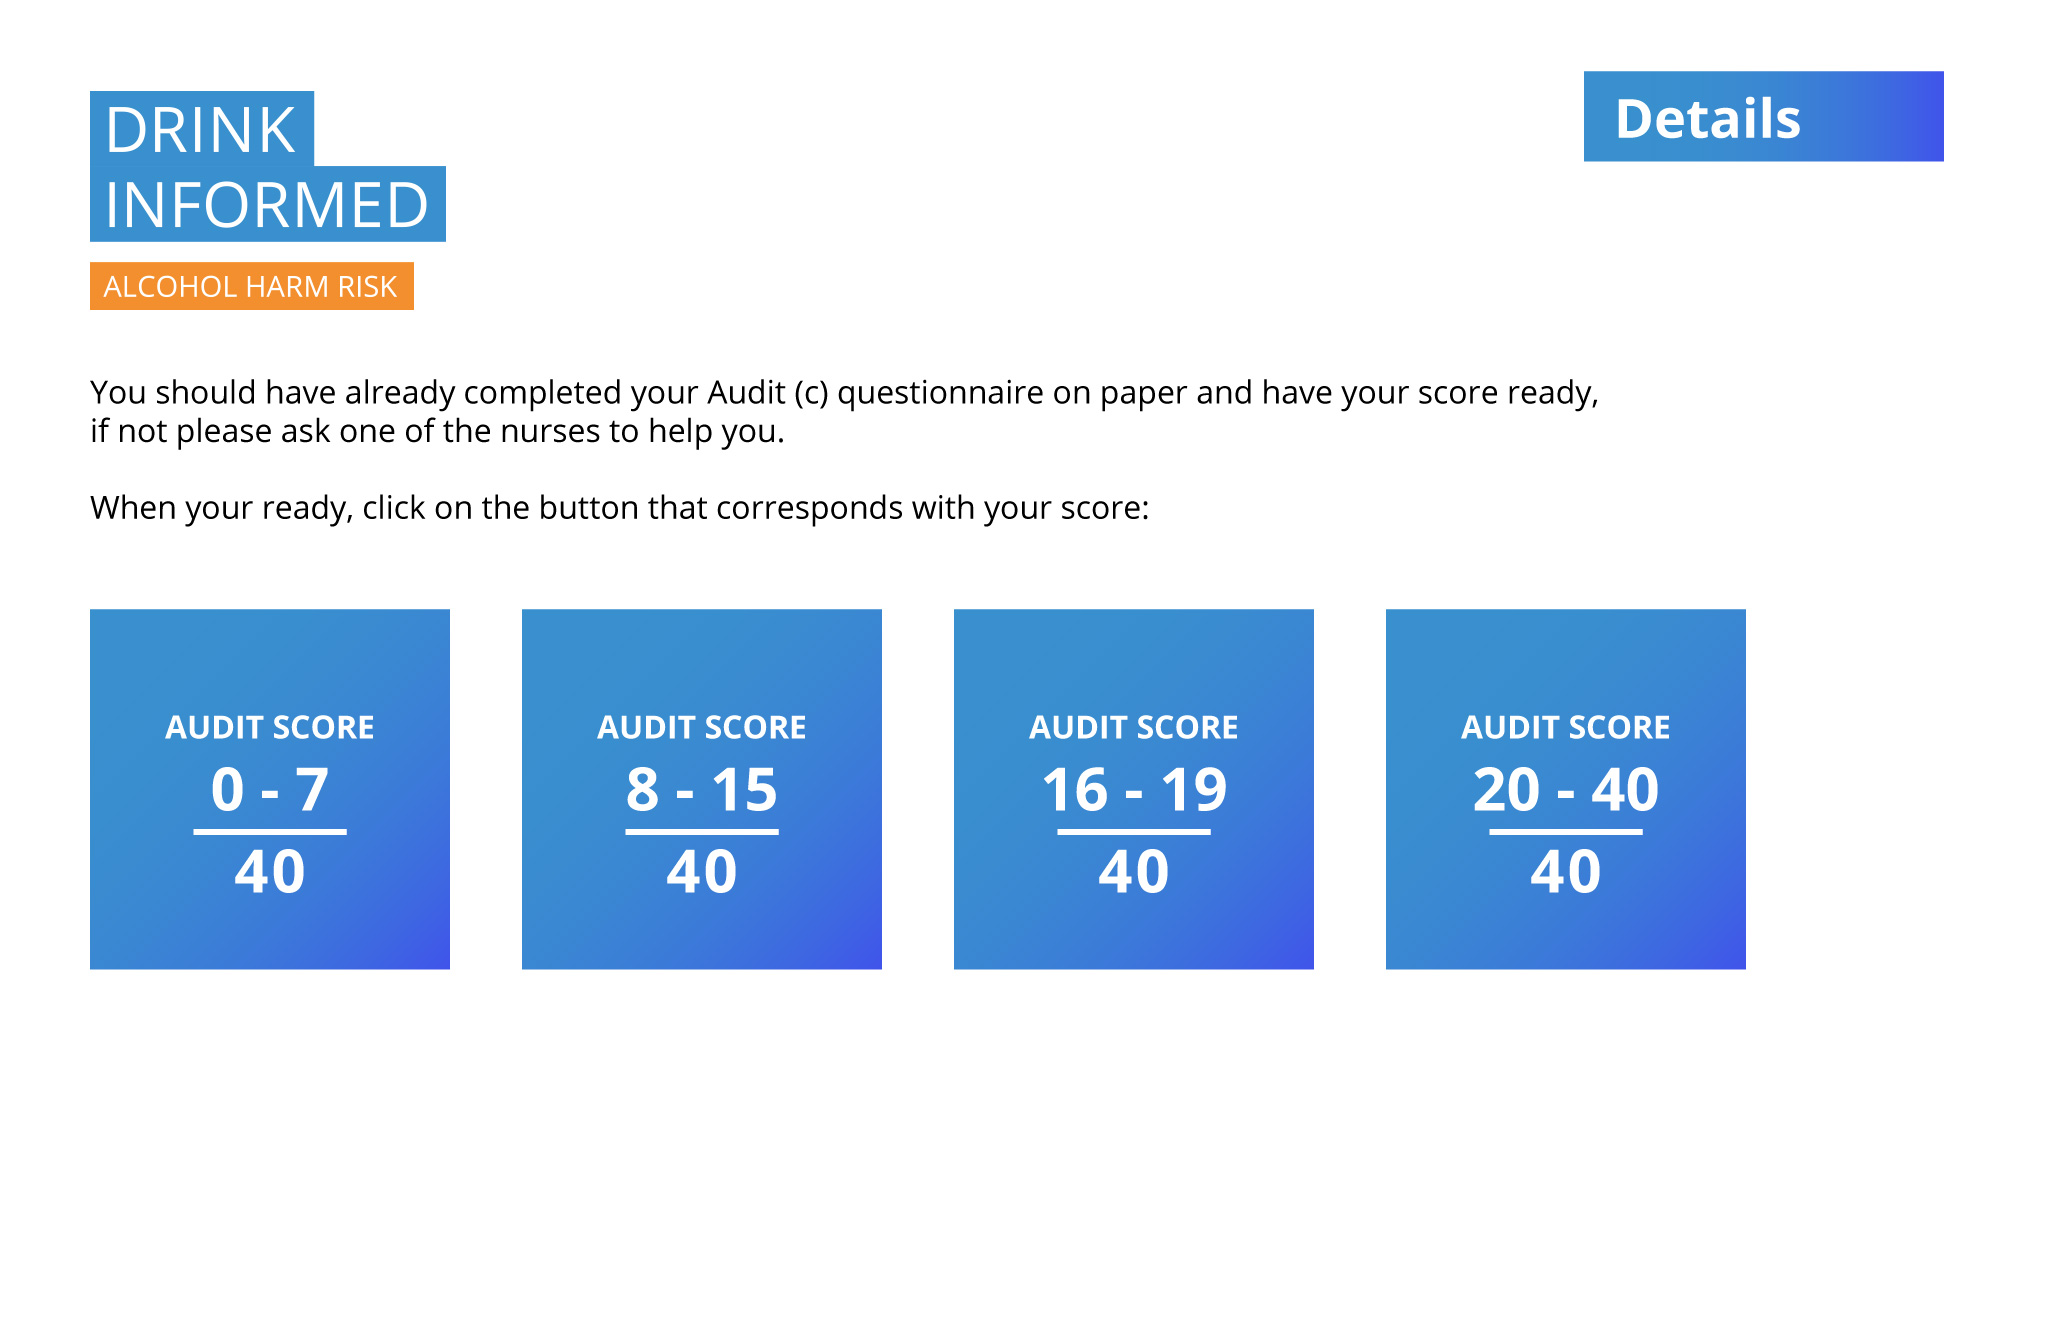
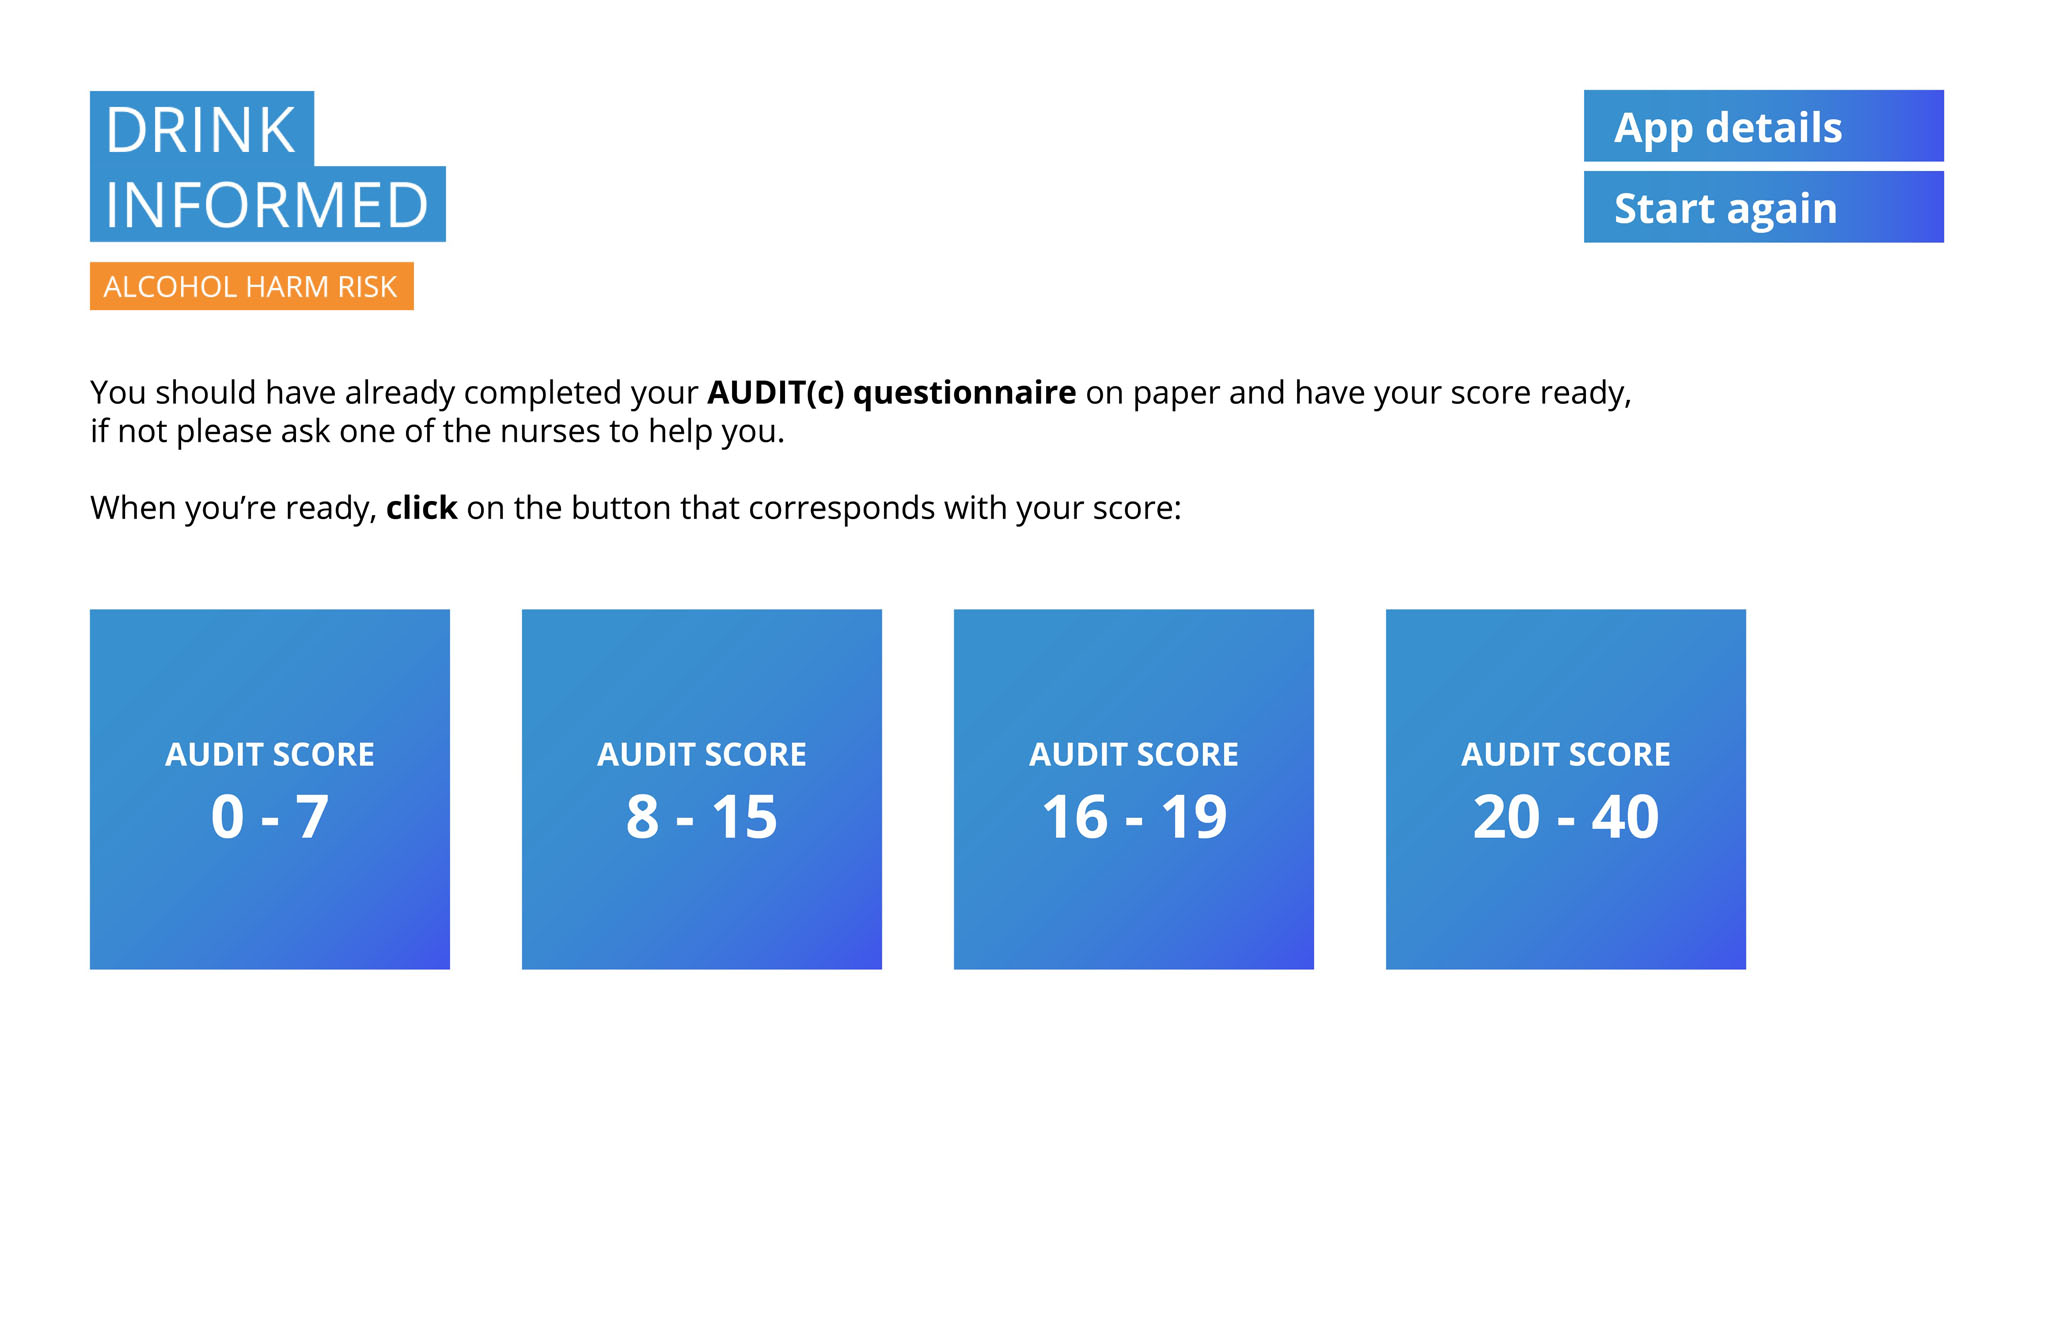
Very last changes

diff --git a/js/controllers/PageController.js b/js/controllers/PageController.js
@@ -94,7 +94,7 @@ app.controller('PageController', ['$scope', '$routeParams', function($scope, $ro
     },
     {
       name: 'Korsakoff‘s Syndrome',
-      para1: 'Korsakoff’s Syndrome is an irreversible condition. If you have Korsakoff’s, your brain may look like the image on the right, not like the healthy brain on the left. As a result of long-term nutrient deficiency, parts of the brain have died. If you have Korsakoff’s you will not form new memories and you will have memory loss. A quarter of people with Korsakoffs end up in residential care homes at an early age for the rest of their lives.',
+      para1: 'Korsakoff’s Syndrome is an irreversible condition. If you have Korsakoff’s, your brain may look like the image shown bottom-right, not like the healthy brain shown top-left. As a result of long-term nutrient deficiency, parts of the brain have died. If you have Korsakoff’s you will not form new memories and you will have memory loss. A quarter of people with Korsakoffs end up in residential care homes at an early age for the rest of their lives.',
       para2: '',
       icon: 'assets/icons/Korsakoffs@2x.png'
     },

diff --git a/views/start.html b/views/start.html
@@ -2,8 +2,10 @@
   <img class="logo-small"
        src="assets/LogoSmall@2x.png">
   <nav>
-    <a class="long-link u-float-right"
+    <a class="long-link long-link__small u-float-right"
        href="#/details">App details</a>
+    <a class="long-link long-link__small u-float-right u-clear-right"
+       href="#/home">Start again</a>
   </nav>
   <p class="info__para">
     You should have already completed your <strong>AUDIT(c) questionnaire</strong> on paper and have your score ready,<br>

diff --git a/assets/styles.css b/assets/styles.css
@@ -32,6 +32,11 @@ Utils
 .u-float-right {
   float: right; 
 }
+
+.u-clear-right {
+  clear: right;
+  margin-top: 10px;
+}
 /*-------------------------
 Header
 --------------------------*/
@@ -142,6 +147,11 @@ Index
   display: inline-block;
   padding: 0.2em 0.6em; 
   background: linear-gradient(to right, #3990ce 0%,#398ecf 32%,#3a85d3 55%,#3c72dc 78%,#4053eb 100%);
+}
+
+.long-link__small {
+  width: 180px;
+  height: 35px;
 }
 
 .long-link__second {
